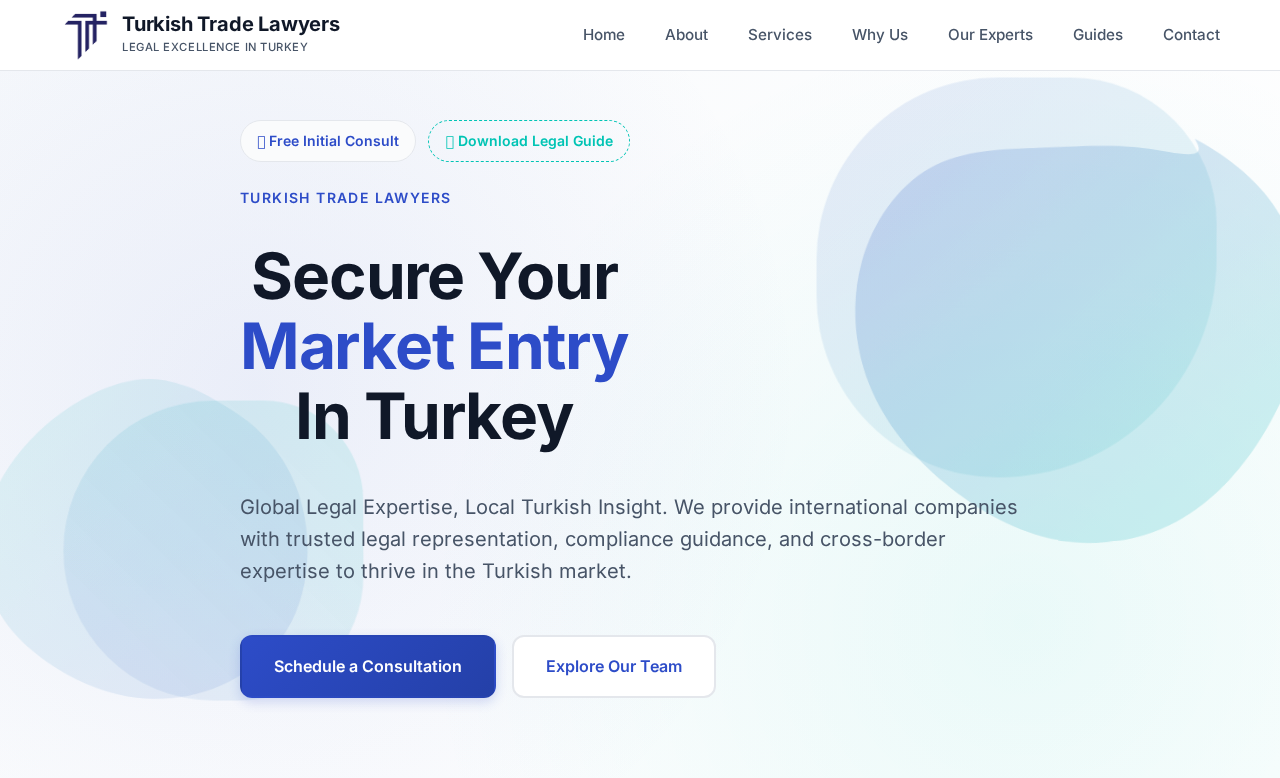
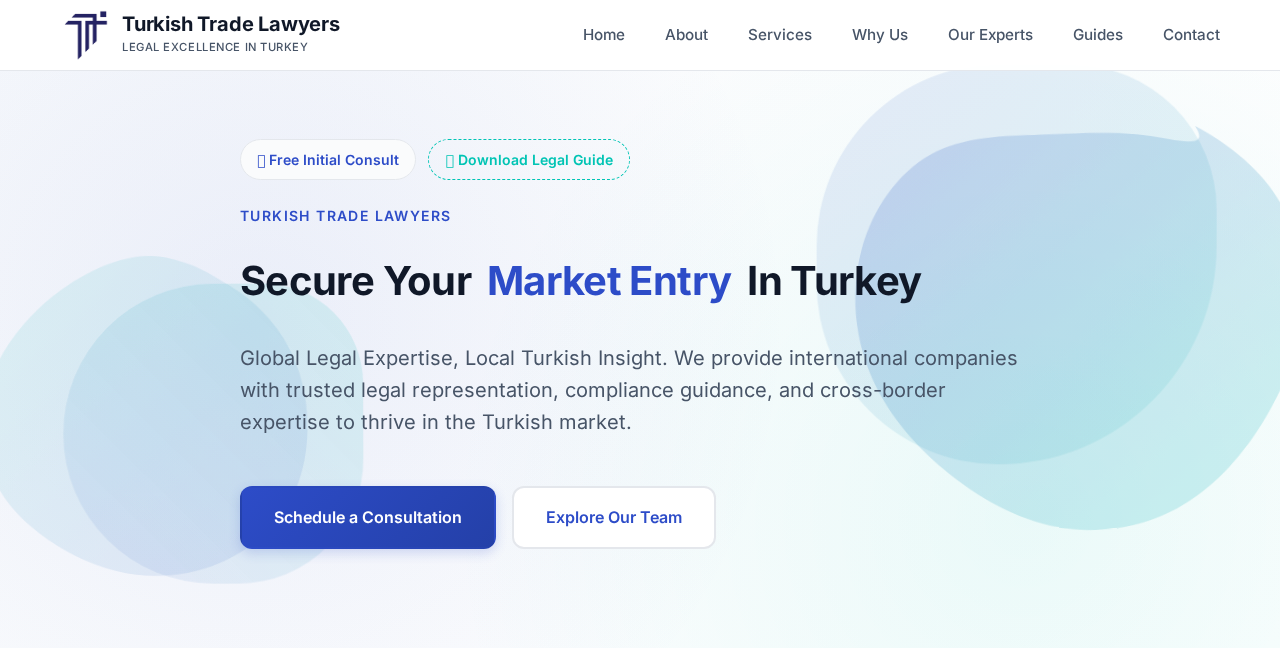
feat: Center hero title and fix alignment bug
- Modified `index.html` to wrap the static and dynamic parts of the hero title in separate `<span>` elements for individual styling.
- Updated `styles.css` to use flexbox for horizontal centering of the hero title, ensuring all parts remain on a single line with equal font sizes.
- Removed the `.hero-title.long-word` CSS rule and the corresponding JavaScript logic in `script.js` that caused a visual "jump" when the dynamic text changed. This simplifies the code and resolves the alignment issue.

diff --git a/script.js b/script.js
@@ -178,12 +178,6 @@ document.addEventListener('DOMContentLoaded', () => {
                 const newKeyword = keywords[currentIndex];
                 dynamicKeywordSpan.textContent = newKeyword;
                 dynamicKeywordSpan.style.opacity = '1';
-
-                if (newKeyword.length > 18) {
-                    heroTitle.classList.add('long-word');
-                } else {
-                    heroTitle.classList.remove('long-word');
-                }
             }, 500);
         }, 3000);
     }

diff --git a/styles.css b/styles.css
@@ -392,22 +392,20 @@ a {
 }
 
 .hero-title {
-    font-size: 4rem;
     color: var(--text-dark);
     max-width: 900px;
     line-height: 1.1;
     margin-bottom: 24px;
     font-weight: 700;
-}
-
-.hero-title.long-word {
-    font-size: 3.2rem;
-}
-
-.hero-title {
     display: flex;
-    flex-direction: column;
+    flex-direction: row;
+    justify-content: center;
     align-items: center;
+    gap: 1rem;
+}
+
+.hero-title span {
+    font-size: 2.5rem;
 }
 
 #dynamic-keyword {

diff --git a/verify.py b/verify.py
@@ -1,15 +1,30 @@
-import time
-from playwright.sync_api import sync_playwright
+
+import asyncio
+from playwright.async_api import async_playwright
 import os
 
-with sync_playwright() as p:
-    browser = p.chromium.launch()
-    page = browser.new_page()
-    # Construct the file path using os.path.join for compatibility
-    file_path = os.path.join(os.getcwd(), 'index.html')
-    page.goto(f'file://{file_path}')
-    # Add a delay to allow the dynamic text to change to a long word
-    time.sleep(9)
-    hero_section = page.locator('.hero-title')
-    hero_section.screenshot(path='hero-screenshot-long.png')
-    browser.close()
+async def main():
+    async with async_playwright() as p:
+        browser = await p.chromium.launch()
+        page = await browser.new_page()
+
+        # Construct the absolute file path
+        file_path = "file://" + os.path.abspath("index.html")
+
+        await page.goto(file_path)
+
+        # Wait for the hero section to be visible
+        await page.wait_for_selector('.hero')
+
+        # Take a screenshot of the hero section
+        hero_element = await page.query_selector('.hero')
+        await hero_element.screenshot(path="hero-screenshot.png")
+
+        # Take a screenshot of a long word in the hero section
+        await page.evaluate('document.getElementById("dynamic-keyword").textContent = "Intellectual Assets"')
+        await hero_element.screenshot(path="hero-screenshot-long.png")
+
+        await browser.close()
+
+if __name__ == "__main__":
+    asyncio.run(main())
